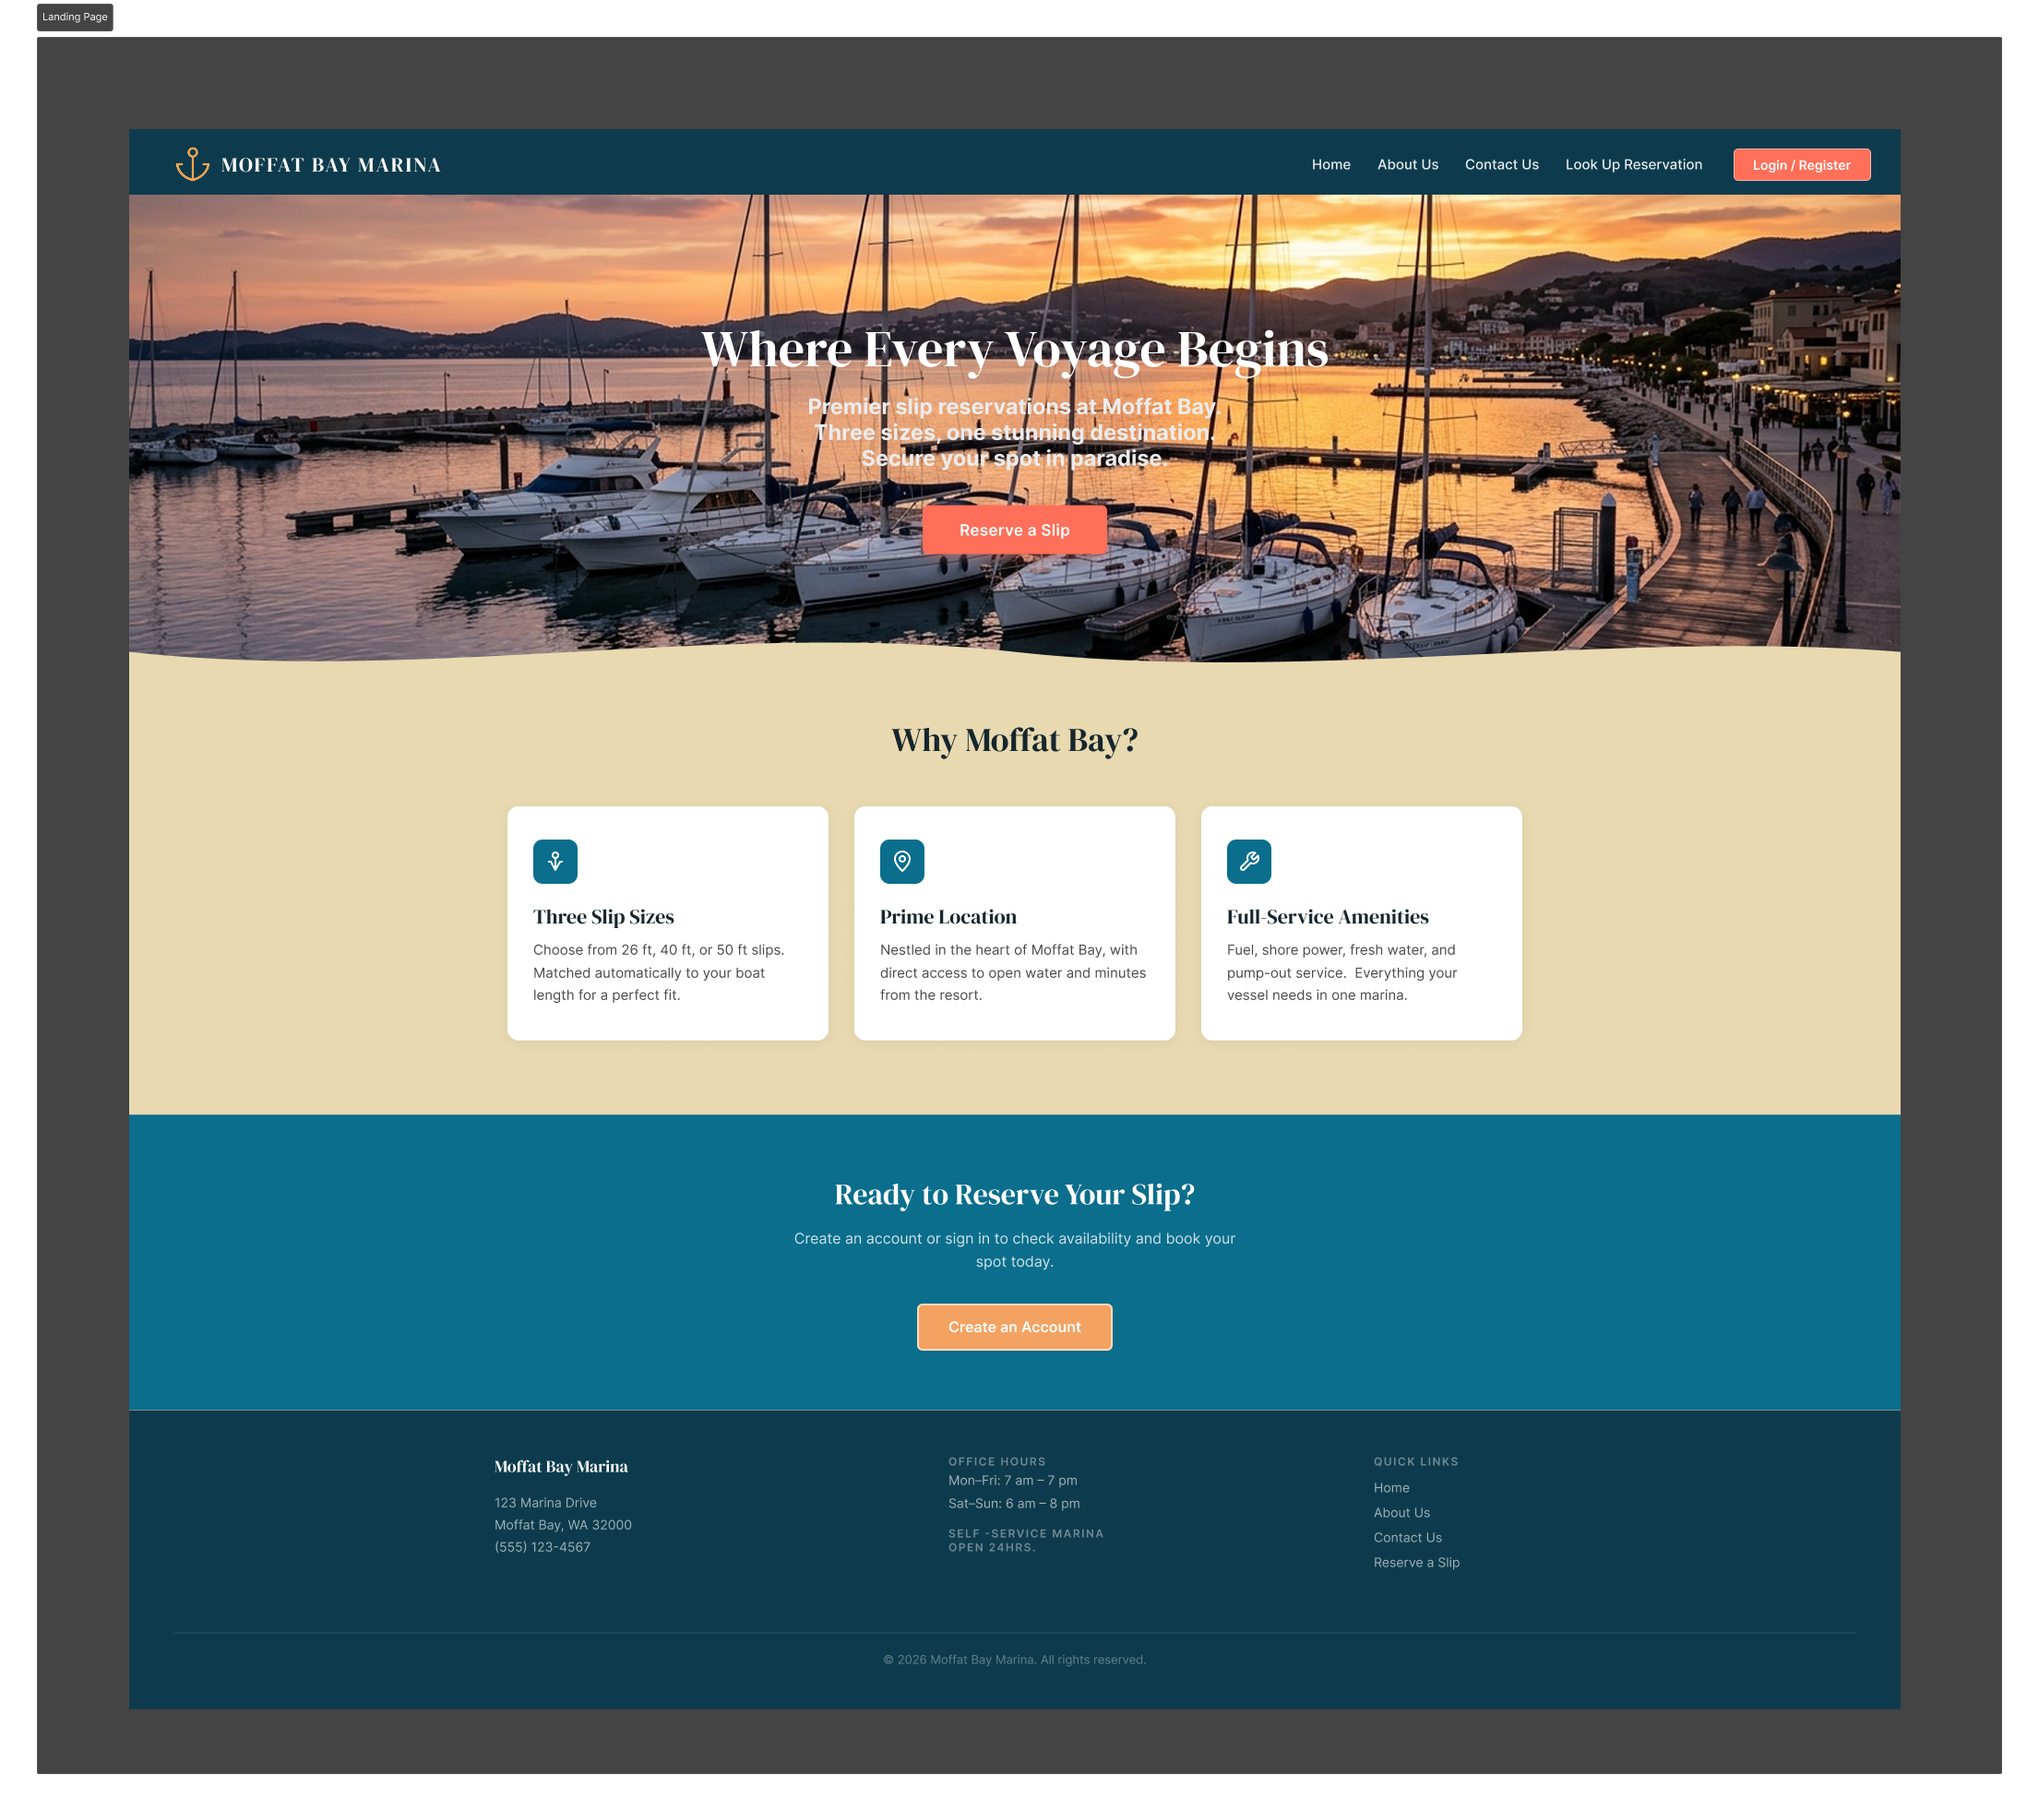
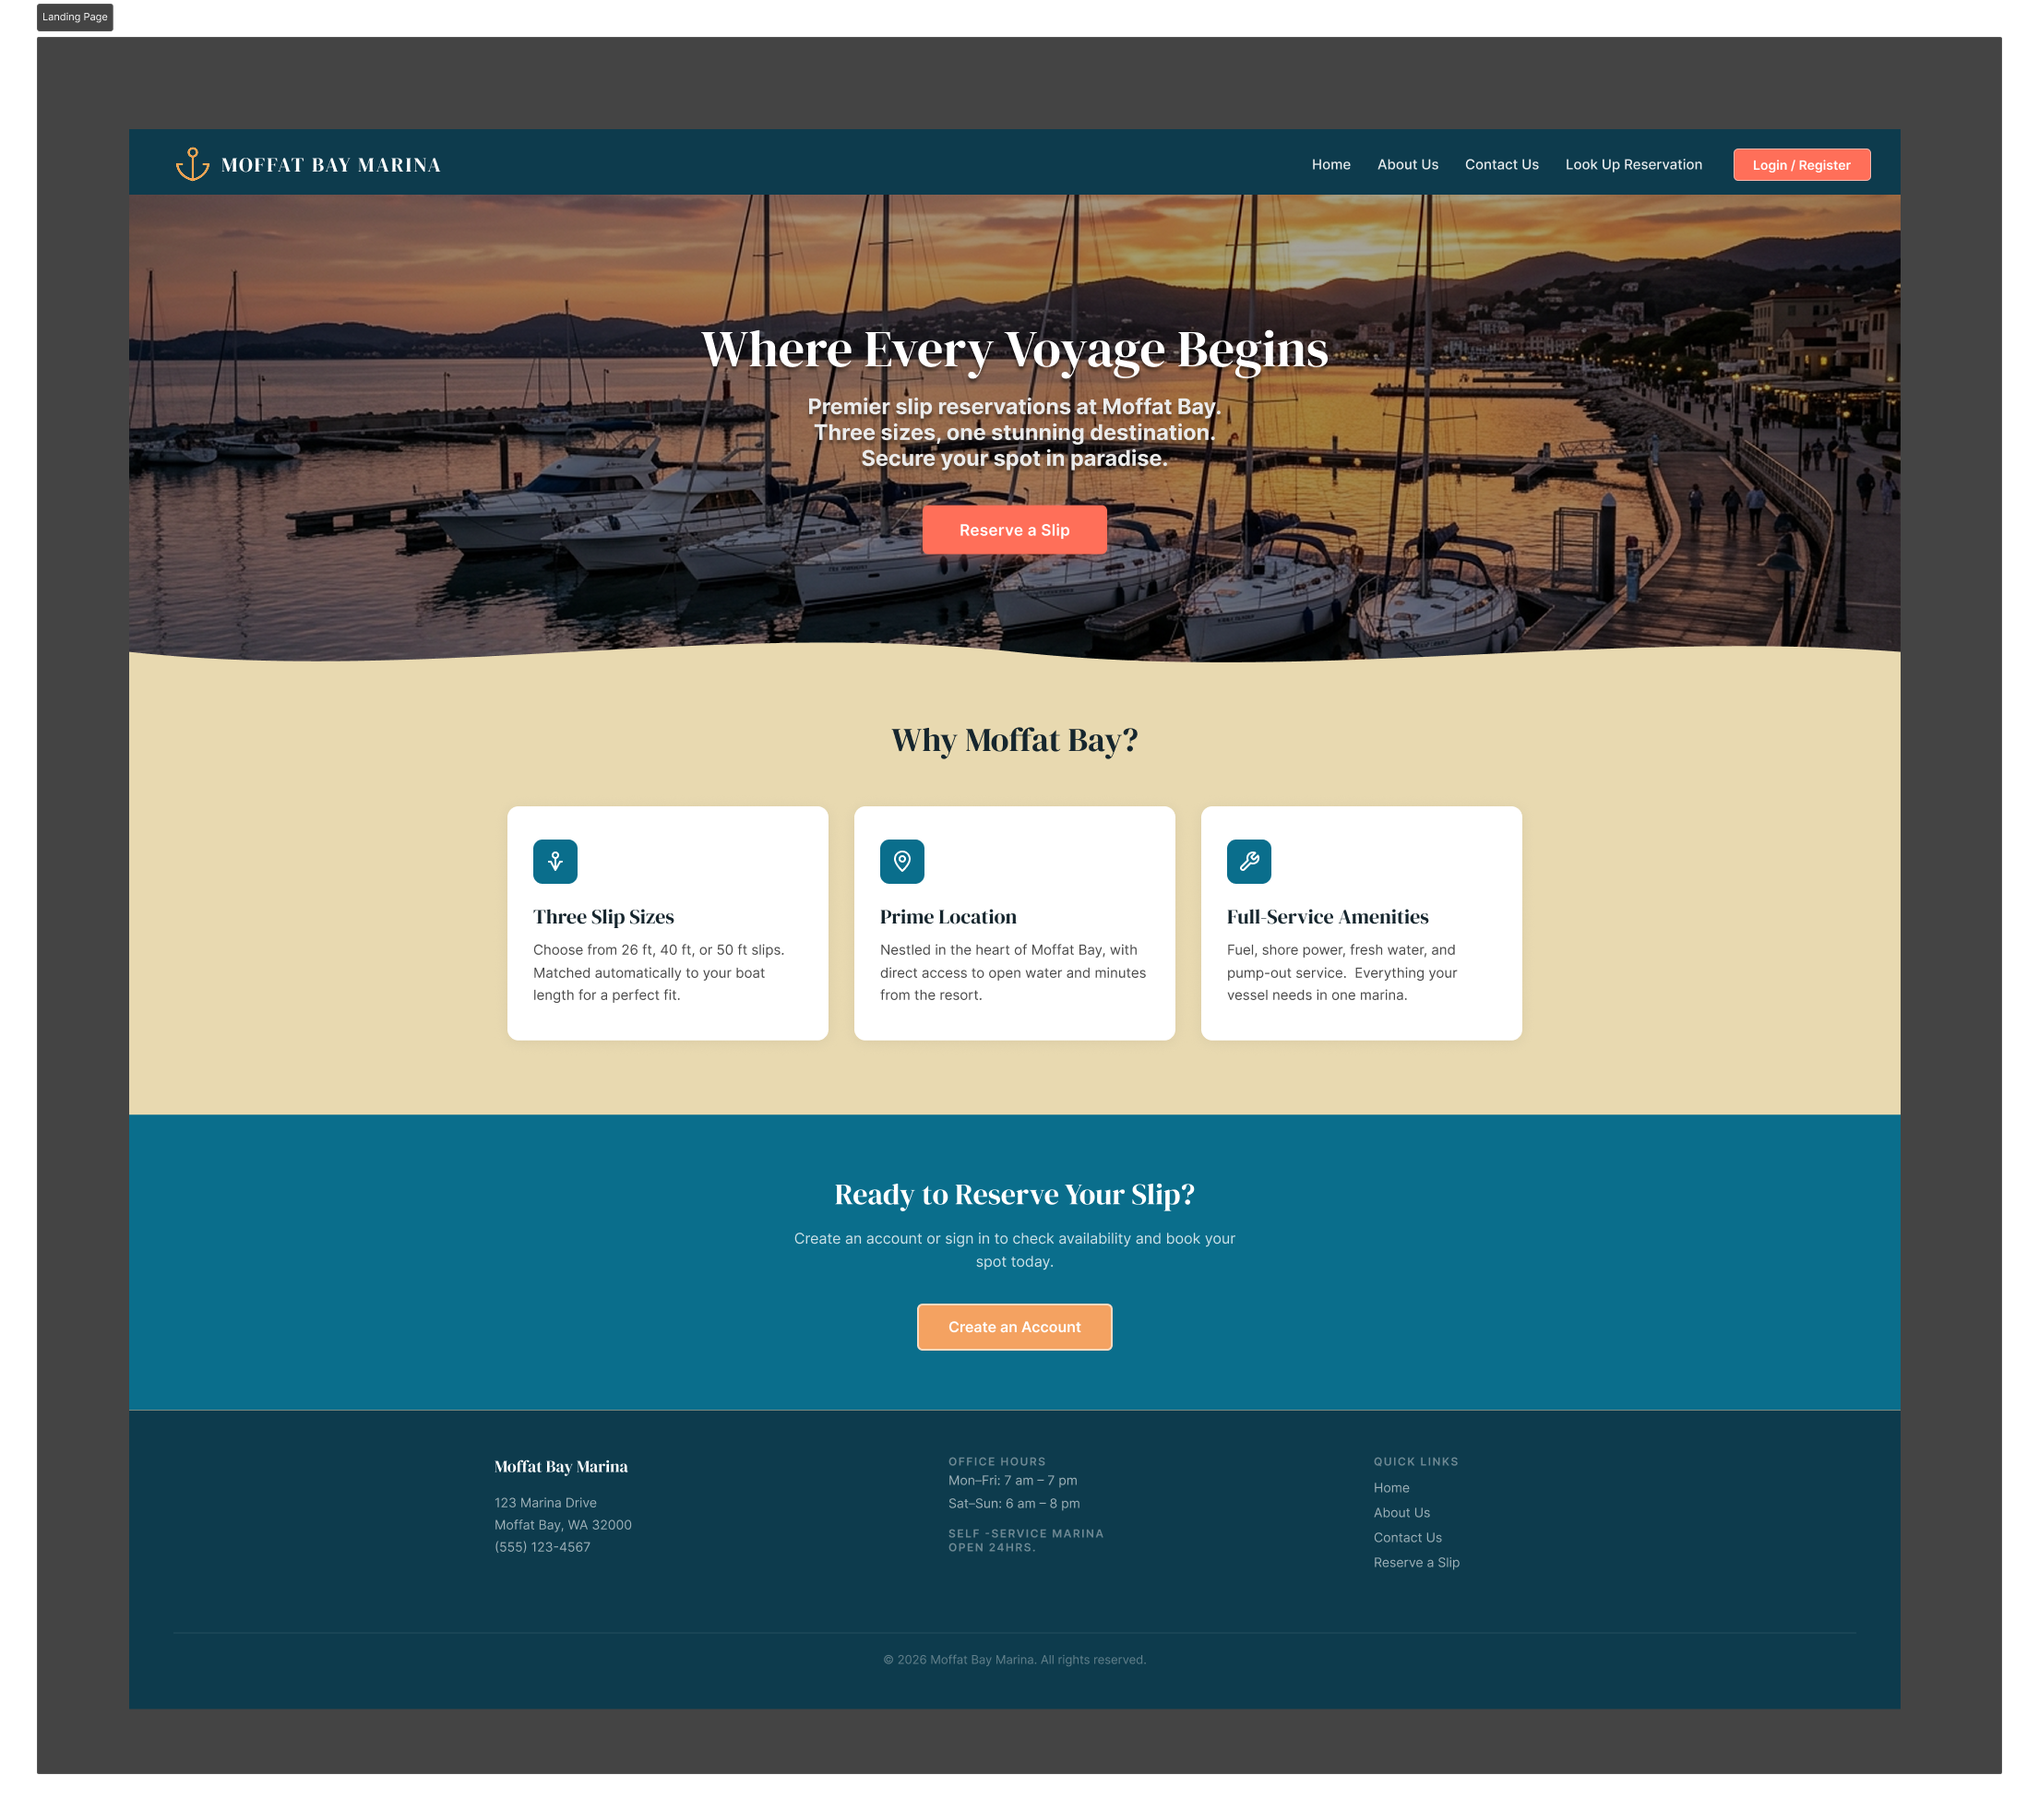
Reorganize Repo

Changed region(s): [[0.0624, 0.0932, 0.9367, 0.3729]]

diff --git a/CSD-460 DevNotes/definitions.md b/CSD-460 DevNotes/definitions.md
@@ -1,0 +1,25 @@
+## Contact
+
+| | |
+|---|---|
+| Address | 1400 Harbor Loop Road, Joviedsa Island, WA 98250 |
+| Phone | (360) 555-0142 |
+| Email | office@moffatbaymarina.com |
+| VHF | Channel 68 (Coast Guard emergencies: Channel 16) |
+
+## Hours
+
+| Day | Hours |
+|---|---|
+| Monday - Friday | 6:00 am - 7:00 pm |
+| Saturday | 6:00 am - 7:00 pm |
+| Sunday | 7:00 am - 5:00 pm |
+| Fuel dock | 7:00 am - dusk, daily |
+
+## Slip Sizes
+
+| Size |
+|---|
+| 26 ft |
+| 40 ft |
+| 50 ft |
